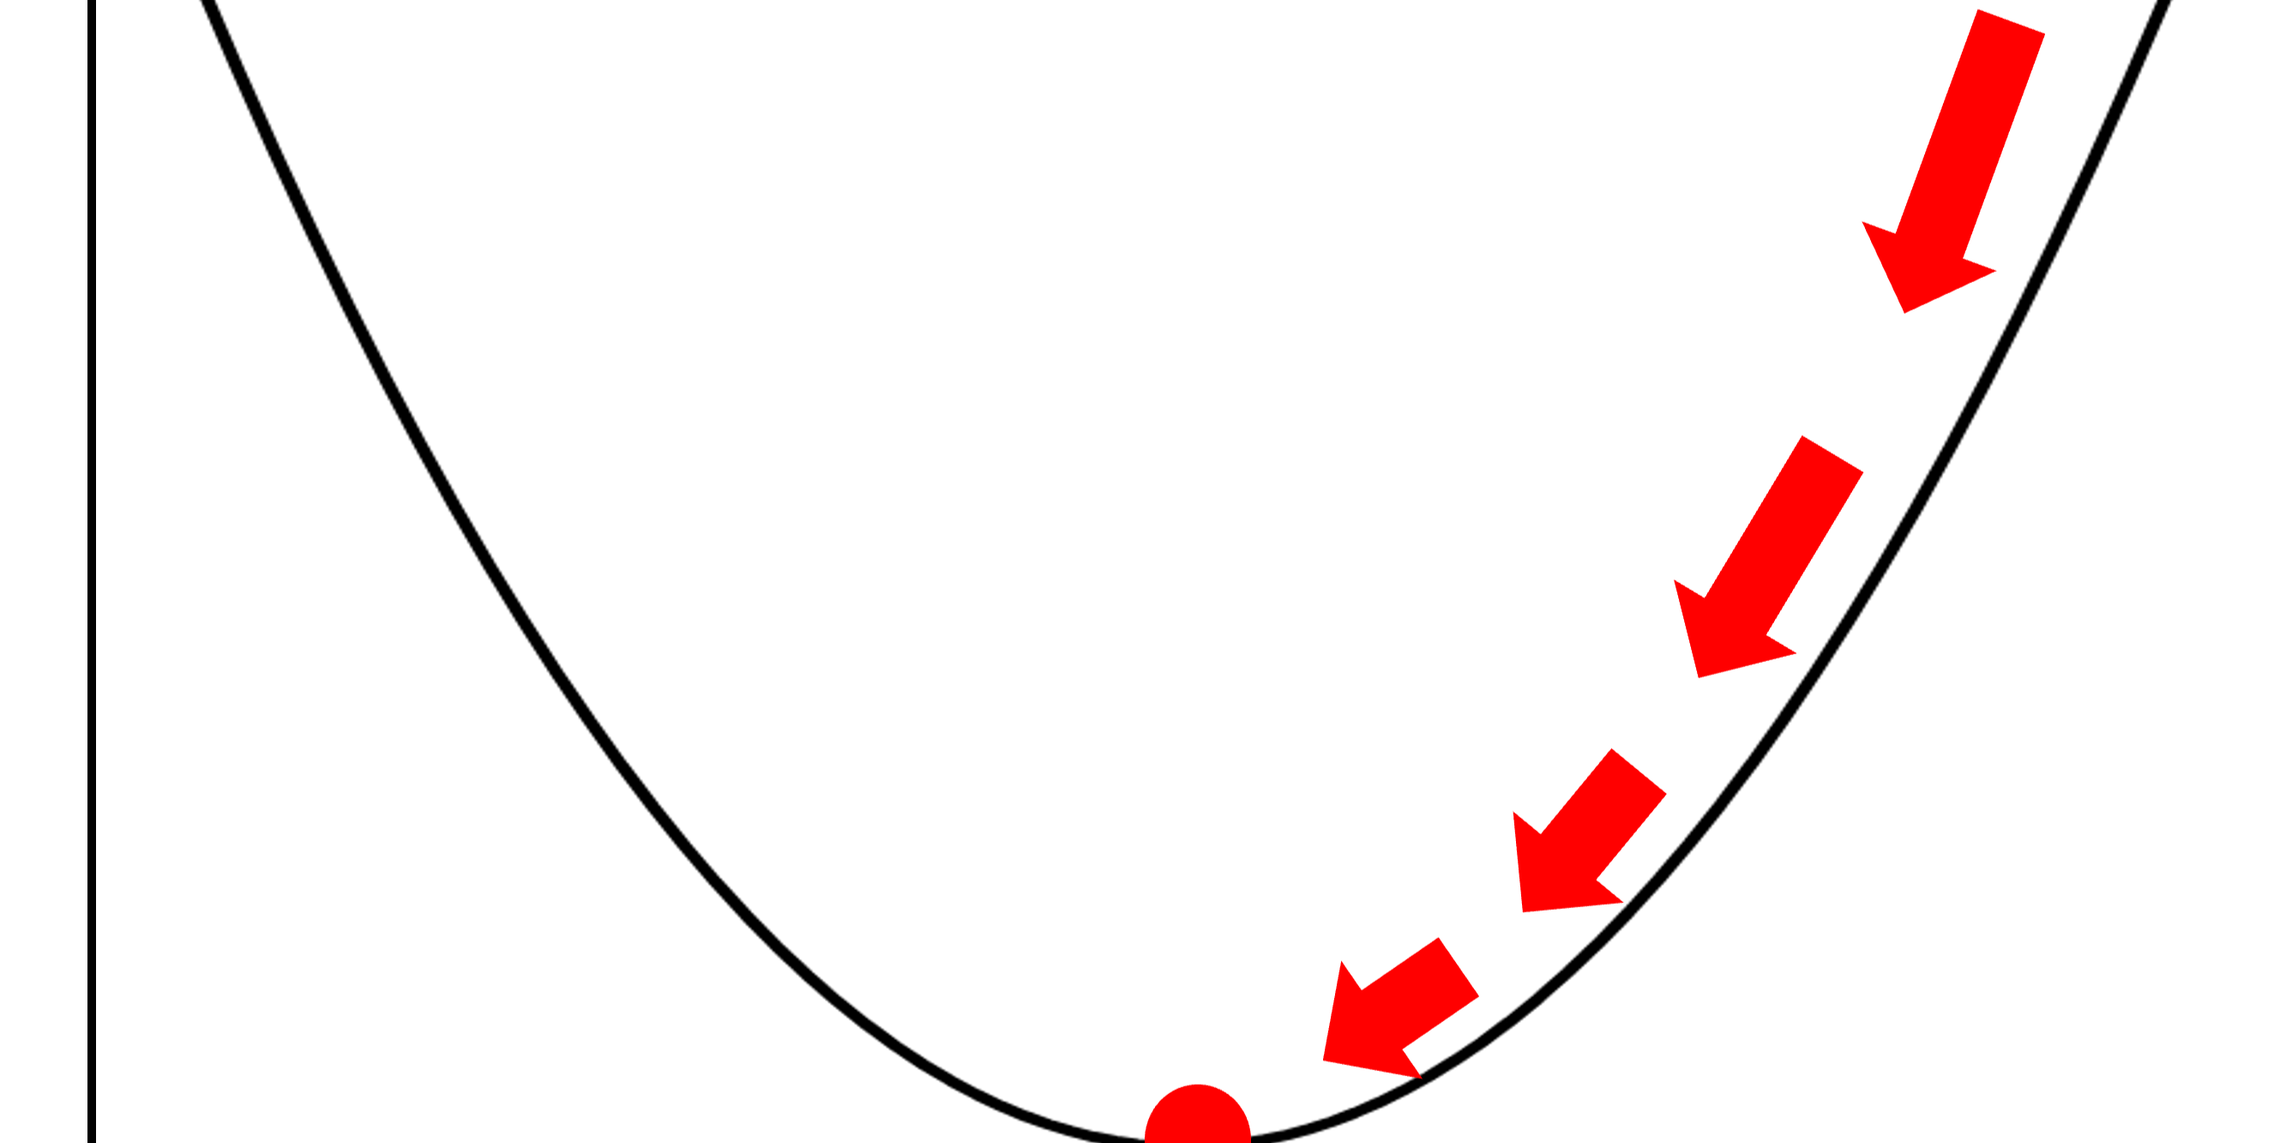
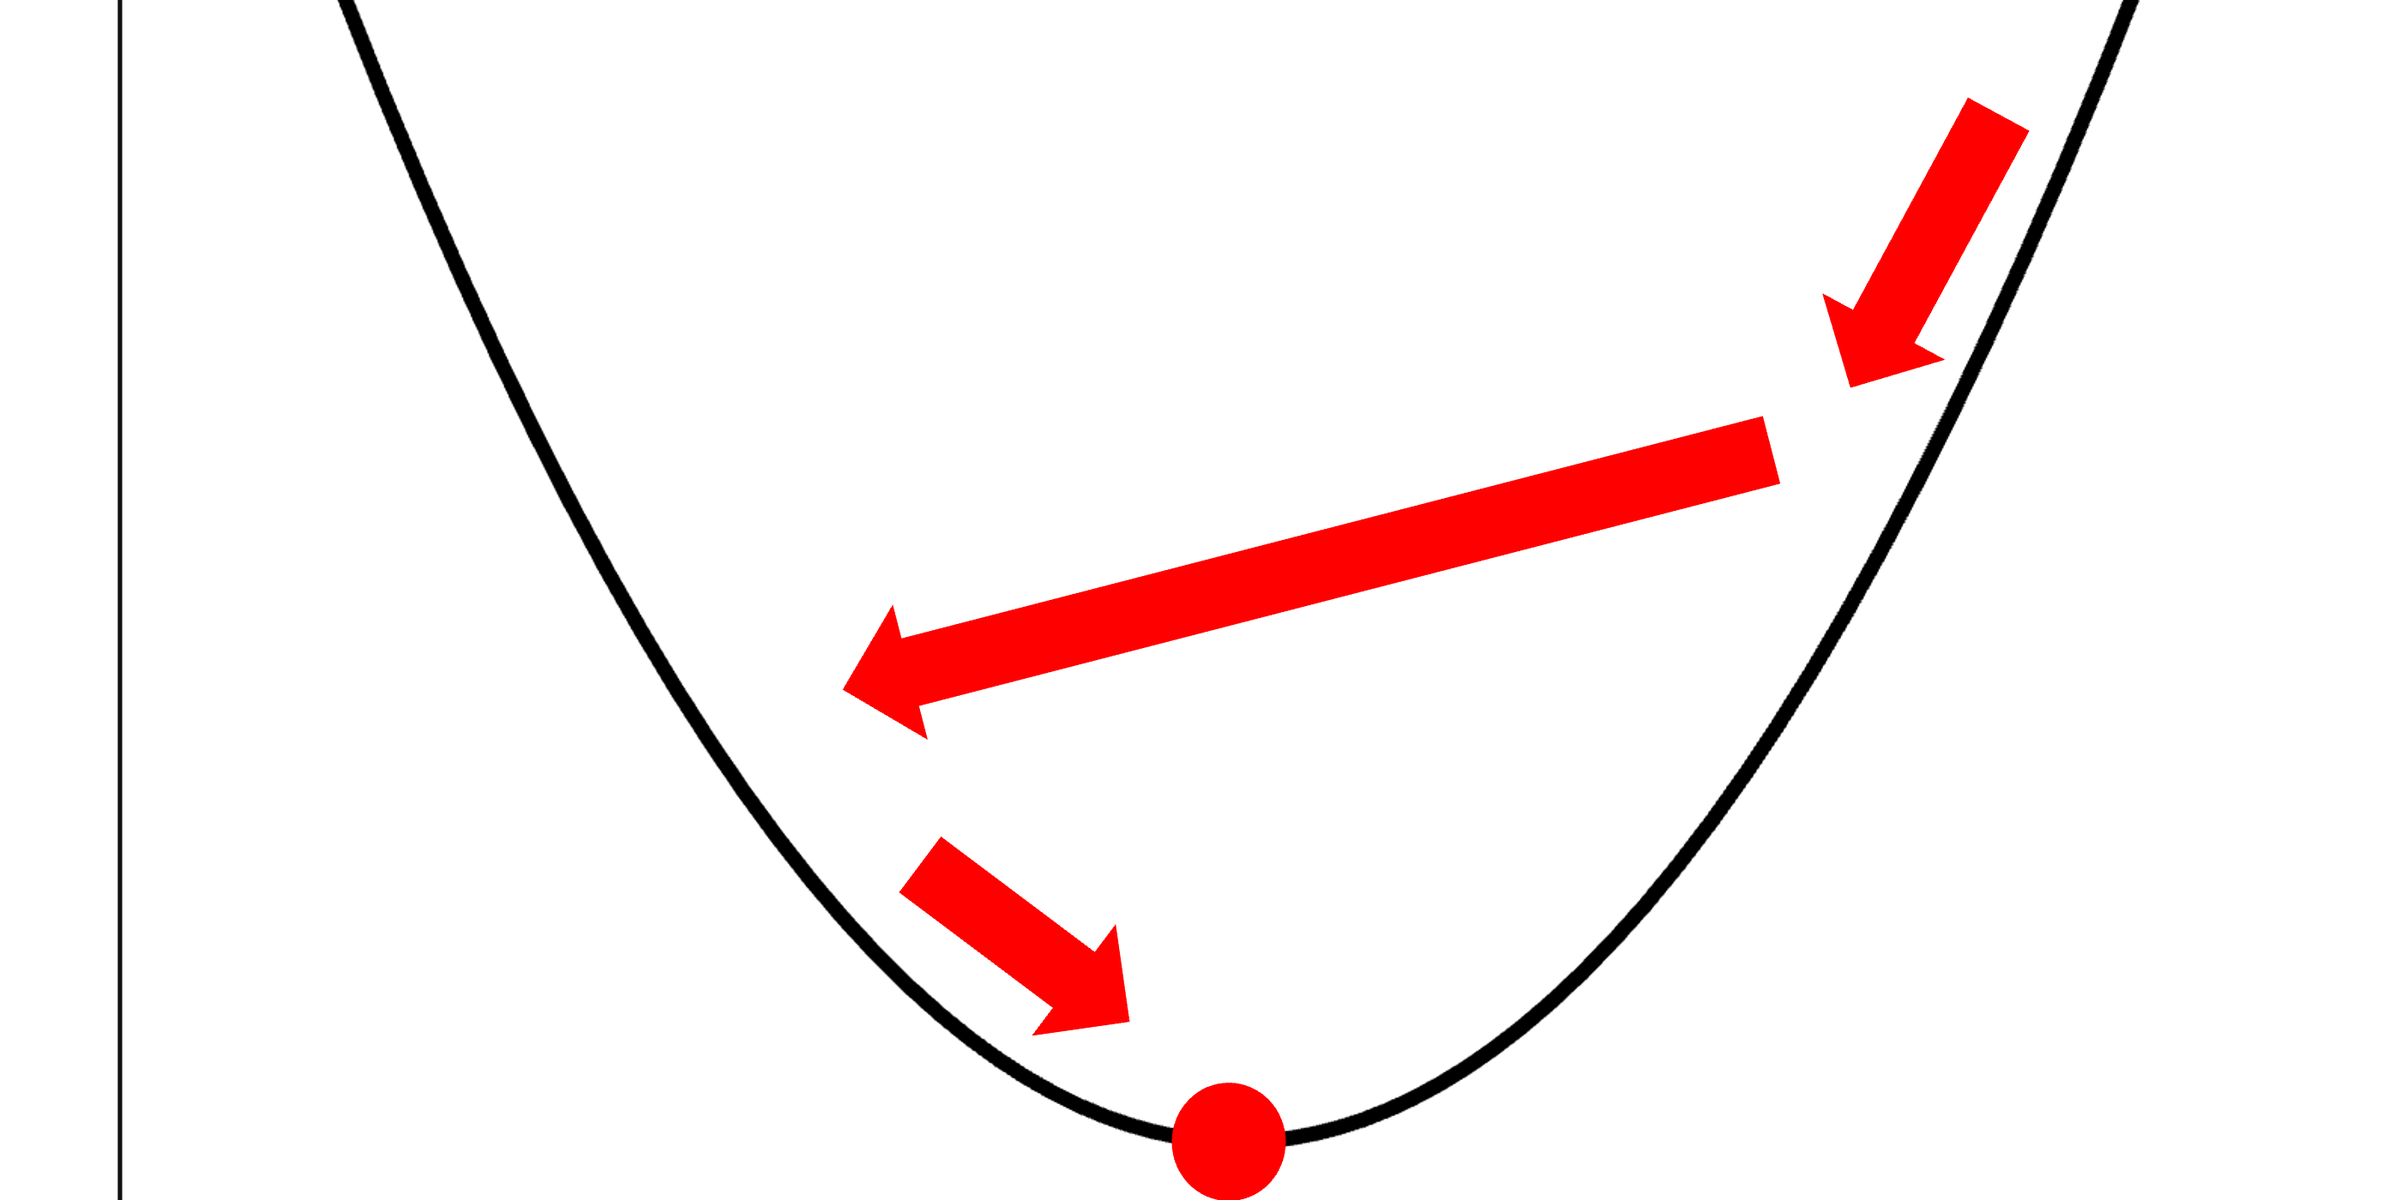
情報エントロピーに関する新しいコンテンツを追加し、メタデータを更新しました。また、ADAMの表記を修正しました。

diff --git a/app/machine_learning/contents/adam.tsx b/app/machine_learning/contents/adam.tsx
@@ -10,7 +10,6 @@ export default function pageContent() {
   const metaData = metadata[pagename];
   const basePath = process.env.NEXT_PUBLIC_BASE_PATH || "";
   const imagePath = `${basePath}/${metaData.topic}/${pagename}`;
-  const notePath = `https://colab.research.google.com/github/jeonglabo/nextjs/blob/main/notebook/${metaData.topic}/${pagename}`;
 
   return (
     <>
@@ -19,15 +18,13 @@ export default function pageContent() {
         ※本投稿はAndrew Ng教授の講義を元にまとめた内容です。
         <br />
         <br />
-        Pythonライブラリを使ったディープラーニング学習アルゴリズムのチュートリアルでは、最適化を行う際にほとんどの場合、Gradient
-        Descentの代わりにADAM Optimizerを使用することが推奨されています。
+        Pythonライブラリを使ったディープラーニング学習アルゴリズムのチュートリアルでは、最適化を行う際にほとんどの場合、勾配降下法の代わりにADAM
+        Optimizerを使用することが推奨されています。
         <br />
-        ADAMがGradient
-        Descentに比べてどのような点で優れているのか、その背景について詳しく見ていきましょう。
+        ADAMが勾配降下法に比べてどのような点で優れているのか、その背景について詳しく見ていきましょう。
       </p>
       <p>
-        前提知識として、勾配降下法（Gradient
-        Descent）について理解していることが前提となります。
+        前提知識として、勾配降下法について理解していることが前提となります。
         <br />
         勾配降下法については以下のページを参照してください。
       </p>
@@ -39,14 +36,20 @@ export default function pageContent() {
         description={metadata.gradient_descent.description}
       />
 
-      <h2 className="caption">勾配降下法の問題</h2>
+      <h2 className="caption">勾配降下法の問題点</h2>
       <p>
         勾配降下法では、収束が遅くなる、または振動しながら収束することがあります。
+        <br />
         これにより学習の効率が低下する場合があります。
       </p>
       <ImageModal
         imagePath={`${imagePath}/gradient_descent_issues.png`}
         altText="コスト関数最適化時の振動の例"
+      />
+      <p>理想は以下のような経路で収束することです。</p>
+      <ImageModal
+        imagePath={`${imagePath}/gradient_descent_ideal.png`}
+        altText="コスト関数最適化時の理想的な経路"
       />
       <p>
         上記のような問題に対処するため、モメンタムやRMSPropといった手法が提案されています。
@@ -54,28 +57,88 @@ export default function pageContent() {
 
       <h2 className="caption">モメンタムを用いた勾配降下法</h2>
       <p>
-        モメンタム手法は、勾配の反復ごとの変動をスムーズにし、振動を抑えることで収束を加速します。
+        モメンタムを導入した勾配降下法は、反復ごとに方向が逆転する場合は更新量を減少させ、反復が同じ方向に続く場合には加速する更新方法です。
+        <br />
+        この方法は<b>モメンタム</b>と呼ばれます。
+        <br />
         アルゴリズムは以下のように定義されます。
       </p>
-      <CenteredEquation equation="V_{dw}(t) = \beta_1 V_{dw}(t-1) + (1 - \beta_1) dW(t)" />
-      <CenteredEquation equation="W := W - \alpha V_{dw}(t)" />
+      <ol>
+        <li>初期化</li>
+        <CenteredEquation equation="V_{dw}(0) = 0 ,V_{db}(0) = 0 " />
+        <li>
+          各反復で、現在のバッチに対して <InlineMath math="dW(t) , db(t) " />{" "}
+          を計算します。
+        </li>
+        <li>以下のようにステップを更新する。</li>
+        <CenteredEquation
+          equation="\begin{aligned}
+          V_{dw}(t) &= \beta_1 V_{dw}(t-1) + (1 - \beta_1) dW(t) \\
+          V_{db}(t) &= \beta_1 V_{db}(t-1) + (1 - \beta_1) db(t)
+          \end{aligned}"
+        />
+        <p>この時に重みも更新します。</p>
+        <CenteredEquation equation="\begin{aligned} W &:= W - \alpha V_{dw}(t) \\ b &:= b - \alpha V_{db}(t) \end{aligned}" />
+      </ol>
 
       <h2 className="caption">RMSProp</h2>
       <p>
-        RMSPropは、勾配の大きさを基に学習率を調整します。
-        以下にアルゴリズムを示します。
+        RMSPropは「Root Mean Square Propagation」の略です。
+        <br />
+        RMSPropは、勾配の方向ではなく、勾配の大きさを基に学習率を調整します。
+        <br />
+        このアルゴリズムはモメンタムとと同じような使用方法を持ちながら、より学習速度の調整に特化しています。
+        <br />
+        アルゴリズムは以下のように定義されます。
       </p>
-      <CenteredEquation equation="S_{dw}(t) = \beta_2 S_{dw}(t-1) + (1 - \beta_2) dW^2(t)" />
-      <CenteredEquation equation="W := W - \frac{\alpha dW(t)}{\sqrt{S_{dw}(t)} + \epsilon}" />
+      <ol>
+        <li>初期化</li>
+        <CenteredEquation equation="S_{dw}(t) = 0 ,S_{db}(t) = 0 " />
+        <li>
+          各反復で、現在のバッチに対して <InlineMath math="dW(t) , db(t) " />{" "}
+          を計算します。
+        </li>
+        <li>以下のようにステップを更新する。</li>
+        <CenteredEquation
+          equation="\begin{aligned}
+          S_{dw}(t) &= \beta_2 S_{dw}(t-1) + (1 - \beta_2) dW^2(t) \\
+          S_{db}(t) &= \beta_2 S_{db}(t-1) + (1 - \beta_2) db^2(t)
+          \end{aligned}"
+        />
+        <p>この時に重みも更新します。</p>
+        <CenteredEquation equation="\begin{aligned} W &:= W - \frac{\alpha}{\sqrt{S_{dw}(t)} + \epsilon} dW(t) \\ b &:= b - \frac{\alpha}{\sqrt{S_{db}(t)} + \epsilon} db(t) \end{aligned}" />
+      </ol>
 
       <h2 className="caption">ADAM（Adaptive Moment Estimation）</h2>
       <p>
-        ADAMは、モメンタムとRMSPropを組み合わせた最適化手法です。
-        各反復における更新は以下の通りです。
+        ADAMは、モメンタムとRMSPropの両者の利点を組み合わせた最適化手法です。
+        <br />
+        アルゴリズムは以下のように定義されます。
       </p>
-      <CenteredEquation equation="V_{dw}(t) = \beta_1 V_{dw}(t-1) + (1 - \beta_1) dW(t)" />
-      <CenteredEquation equation="S_{dw}(t) = \beta_2 S_{dw}(t-1) + (1 - \beta_2) dW^2(t)" />
-      <CenteredEquation equation="W := W - \frac{\alpha V_{dw}(t)}{\sqrt{S_{dw}(t)} + \epsilon}" />
+      <ol>
+        <li>初期化</li>
+        <CenteredEquation equation="V_{dw}(0) = 0 ,V_{db}(0) = 0 ,S_{dw}(0) = 0 ,S_{db}(0) = 0 " />
+        <li>
+          各反復で、現在のバッチに対して <InlineMath math="dW(t) , db(t) " />{" "}
+          を計算します。
+        </li>
+        <li>以下のようにステップを更新する。</li>
+        <CenteredEquation
+          equation="\begin{aligned}
+          V_{dw}(t) &= \beta_1 V_{dw}(t-1) + (1 - \beta_1) dW(t) \\
+          V_{db}(t) &= \beta_1 V_{db}(t-1) + (1 - \beta_1) db(t) \\
+          S_{dw}(t) &= \beta_2 S_{dw}(t-1) + (1 - \beta_2) dW^2(t) \\
+          S_{db}(t) &= \beta_2 S_{db}(t-1) + (1 - \beta_2) db^2(t)
+          \end{aligned}"
+        />
+        <p>この時に重みも更新します。</p>
+        <CenteredEquation
+          equation="\begin{aligned}
+          W &:= W - \frac{\alpha}{\sqrt{S_{dw}(t)} + \epsilon} V_{dw}(t) \\
+          b &:= b - \frac{\alpha}{\sqrt{S_{db}(t)} + \epsilon} V_{db}(t)
+          \end{aligned}"
+        />
+      </ol>
       <p>
         ADAMは学習速度、安定性の向上に寄与し、多くのディープラーニングモデルで広く使用されています。
       </p>
@@ -95,10 +158,7 @@ export default function pageContent() {
       </ul>
 
       <h2 className="caption">参考文献</h2>
-      <p>
-        Kingma, D. P., & Ba, J. (2015). Adam: A method for stochastic
-        optimization. ICLR.
-      </p>
+      <p>ADAM: A Method for Stochastic Optimization, Kingma & Ba, ICLR, 2015</p>
     </>
   );
 }

diff --git a/app/machine_learning/contents/informationentropy.tsx b/app/machine_learning/contents/informationentropy.tsx
@@ -1,0 +1,106 @@
+import { metadata } from "@/app/machine_learning/metadata";
+import CenteredEquation from "@/app/components/CenteredEquation";
+import { InlineMath } from "react-katex";
+import ImageModal from "@/app/components/ImageModal";
+import CustomLink from "@/app/components/CustomLink";
+
+export default function pageContent() {
+  const pagename: string = "informationentropy"; //ここを変更
+
+  const metaData = metadata[pagename];
+  const basePath = process.env.NEXT_PUBLIC_BASE_PATH || "";
+  const imagePath = `${basePath}/${metaData.topic}/${pagename}`;
+  const notePath = `https://colab.research.google.com/github/jeonglabo/nextjs/blob/main/notebook/${metaData.topic}/${pagename}`;
+
+  return (
+    <>
+      <h2 className="caption">情報とは何か？</h2>
+      <p>
+        学習を進める中で、用語に引っかかることがよくあります。特に私の場合、統計学を学ぶ中で用語の壁を感じることが多かったように思います。
+        <br />
+        例えば、「帰無仮説」といった用語はあまりにも聞き慣れないため、その意味を理解するのに苦労した良い例です。
+        <br />
+        <br />
+        しかし、今回のポストで取り上げる「情報」という言葉は、日常的にあまりにも頻繁に使われているために、逆に学習の妨げとなる場合があると言えます。
+        <br />
+        <br />
+        情報とは何でしょうか？「情報」はさまざまな視点から解釈できます。例えば、データベースの観点では、情報とはデータを利用しやすく加工したものを指します。
+        <br />
+        この視点は主にコンピュータサイエンスの観点に基づいたもので、データを使用する側から見た情報の抽象的な概念と言えるでしょう。
+        <br />
+        <br />
+        では、統計学では、数学的に情報とは何を意味するのでしょうか？
+        <br />
+        統計学における情報量は「驚きの度合い」と言えるかもしれません。
+        <br />
+        つまり、驚かされる内容ほど情報量が多いということです。
+        <br />
+        <br />
+        そこで、情報量を数式で定義するなら、おそらく確率値に反比例する値として定義するのが適切でしょう。
+      </p>
+      <CenteredEquation equation="\text{Info} \propto \frac{1}{P(X)} \quad \tag{1}" />
+
+      <h2 className="caption">情報量の定義</h2>
+      <p>
+        より具体的に言うと、統計学での情報量は次のように定義されます。離散型ランダム変数&nbsp;
+        <InlineMath math="X" />
+        &nbsp;に対して、
+      </p>
+      <CenteredEquation equation="I(x) = -\log_b(P(X)) \quad \tag{2}" />
+      <p>
+        このとき、ログの底&nbsp;
+        <InlineMath math="b" />
+        &nbsp;は用途に応じて異なり、一般的には&nbsp;
+        <InlineMath math="b = 2, e, 10" />
+        &nbsp;のいずれかが使われます (それぞれの単位は bit, nit, dit です)。
+        <br />
+        <br />
+        情報量の定義にマイナスが付いているのは、次のようにログが情報量の定義に使用されているためです。
+      </p>
+      <CenteredEquation equation="\log_b\left(\frac{1}{P(X)}\right) = -\log_b(P(X)) \quad \tag{3}" />
+      <p>
+        情報量を定義する際にわざわざログを使っているのは、以下のような情報の概念を満たす数式である必要があるからです。
+      </p>
+      <ol>
+        <li>確率値 (または確率密度値) に反比例すること。</li>
+        <li>
+          二つの出来事の情報量を合算すると、それぞれの情報量を足した値に等しくなること。
+        </li>
+      </ol>
+
+      <h2 className="caption">エントロピー: 平均情報量</h2>
+      <p>
+        統計学では、エントロピーとは平均情報量を指します。
+        情報エントロピー（またはシャノンエントロピー）は平均情報量です。
+        離散型ランダム変数&nbsp;
+        <InlineMath math="X" />
+        &nbsp;のサンプル空間が&nbsp;
+        <InlineMath math="\{x_1, x_2, \ldots, x_n\}" />
+        &nbsp;であるとき、情報エントロピーは以下のように定義されます。
+      </p>
+      <CenteredEquation equation="H(X) = E[I(X)] = -\sum_{i=1}^{n} P(x_i) \log_b(P(x_i)) \quad \tag{4}" />
+      <p>
+        ここで、
+        <InlineMath math="E[\cdot]" /> は期待値演算子を意味します。
+        上記の式がなぜ情報量の期待値 (つまり平均情報量)
+        を意味するのか疑問に思う場合は、次の例を再考してみてください。
+        <br />
+        <br />
+        サイコロ遊びをして、1から6までの目が出たとき、それぞれ 100円から
+        600円までを得ると考えましょう。このときの期待値は以下のようになります。
+      </p>
+      <CenteredEquation
+        equation="\begin{aligned}
+        \frac{1}{6} \times 100 + \frac{1}{6} \times 200 + \ldots + \frac{1}{6} \times 600 = \sum_{i=1}^{6} P(x_i) M(x_i) \quad \tag{5,6}
+        \end{aligned}"
+      />
+      <p>
+        情報エントロピーは起こりうるすべての出来事の確率&nbsp;
+        <InlineMath math="P(x_i)" />
+        &nbsp;&times;&nbsp;情報量の値を合計したものなので、
+      </p>
+      <CenteredEquation equation="H(X) = \sum_{i=1}^{n} P(x_i) (-\log_b(P(x_i))) \quad \tag{6}" />
+      <p>として計算して得られる値です。</p>
+    </>
+  );
+}

diff --git a/app/machine_learning/metadata.ts b/app/machine_learning/metadata.ts
@@ -10,9 +10,9 @@ export const metadata: MetadataCollection = {
     topic: "machine_learning",
   },
   adam: {
-    title: "Adam",
-    tabtitle: `Adam - ${siteTitle}`,
-    description: "最適化手法の1つであるAdamについて説明しています。",
+    title: "ADAM",
+    tabtitle: `ADAM - ${siteTitle}`,
+    description: "最適化手法の1つであるADAMについて説明しています。",
     lastUpdated: "2025-01-05",
     topic: "machine_learning",
   },
@@ -21,6 +21,13 @@ export const metadata: MetadataCollection = {
     tabtitle: `勾配降下法 - ${siteTitle}`,
     description: "勾配降下法について説明しています。",
     lastUpdated: "2025-01-05",
+    topic: "machine_learning",
+  },
+  informationentropy: {
+    title: "情報エントロピー",
+    tabtitle: `情報エントロピー - ${siteTitle}`,
+    description: "情報エントロピーについて説明しています。",
+    lastUpdated: "2025-01-06",
     topic: "machine_learning",
   },
 };

diff --git a/app/machine_learning/contents/gradient_descent.tsx b/app/machine_learning/contents/gradient_descent.tsx
@@ -2,7 +2,6 @@ import { metadata } from "@/app/machine_learning/metadata";
 import CenteredEquation from "@/app/components/CenteredEquation";
 import { InlineMath } from "react-katex";
 import ImageModal from "@/app/components/ImageModal";
-import CustomLink from "@/app/components/CustomLink";
 import Image from "next/image";
 
 export default function pageContent() {
@@ -11,7 +10,6 @@ export default function pageContent() {
   const metaData = metadata[pagename];
   const basePath = process.env.NEXT_PUBLIC_BASE_PATH || "";
   const imagePath = `${basePath}/${metaData.topic}/${pagename}`;
-  const notePath = `https://colab.research.google.com/github/jeonglabo/nextjs/blob/main/notebook/${metaData.topic}/${pagename}`;
 
   return (
     <>

diff --git a/app/machine_learning/[slug]/page.tsx b/app/machine_learning/[slug]/page.tsx
@@ -10,6 +10,7 @@ import Table from "@/app/components/Table";
 import AutoencoderContent from "@/app/machine_learning/contents/autoencoder";
 import AdamContent from "@/app/machine_learning/contents/adam";
 import Gradient_DescentContent from "@/app/machine_learning/contents/gradient_descent";
+import InformationEntropyContent from "@/app/machine_learning/contents/informationentropy";
 
 interface PageProps {
   params: Promise<{
@@ -30,6 +31,7 @@ const contentComponents = {
   autoencoder: AutoencoderContent,
   adam: AdamContent,
   gradient_descent: Gradient_DescentContent,
+  informationentropy: InformationEntropyContent,
   // 他のコンポーネントを追加
 };
 
